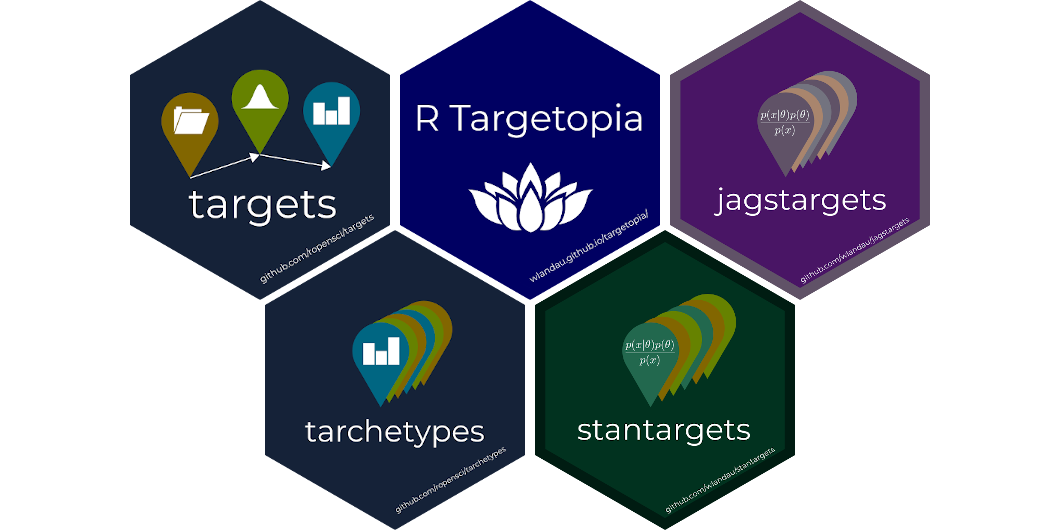
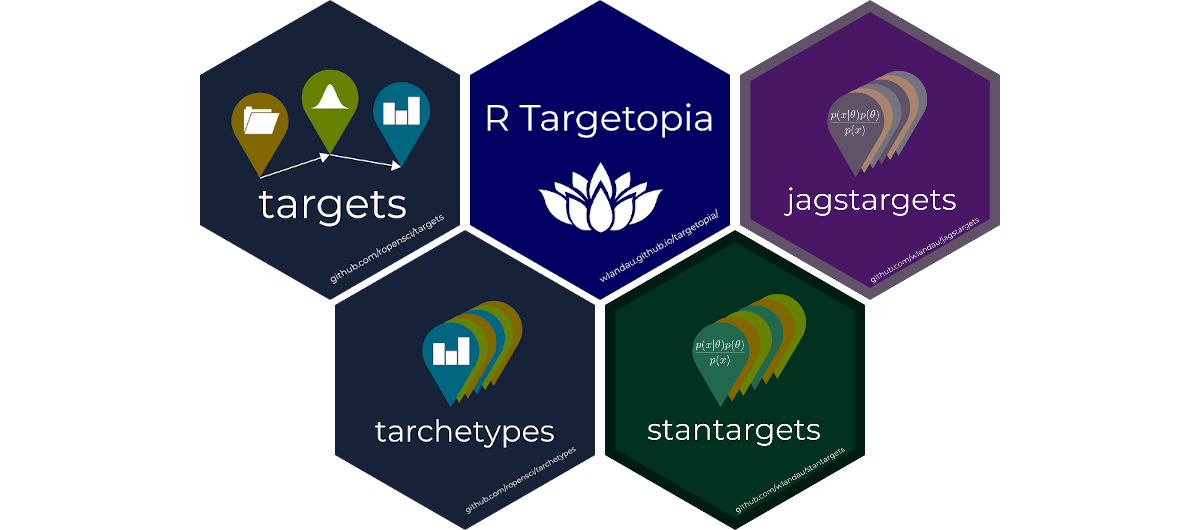
Resize figures

diff --git a/content/technotes/2021-02-03-targets.md b/content/technotes/2021-02-03-targets.md
@@ -229,7 +229,7 @@ list( # Target lists can be arbitrarily nested.
 ```
 
 <!--html_preserve-->
-<h2>The R Targetopia <a href="https://wlandau.github.io/targetopia/">{{< figure src = "technotes/2021-02-03-targets/targetopia.png" alt = "R Targetopia hex logos" height = "260" class = "pull-right" >}}</a></h2>
+<h2>The R Targetopia <a href="https://wlandau.github.io/targetopia/">{{< figure src = "technotes/2021-02-03-targets/targetopia.png" alt = "R Targetopia hex logos" height = "242" class = "pull-right" >}}</a></h2>
 <!--/html_preserve-->
 
 The [R Targetopia](https://wlandau.github.io/targetopia/)[^11] is an emerging ecosystem of packages to bring target factories to specific domains of Statistics and data science.
